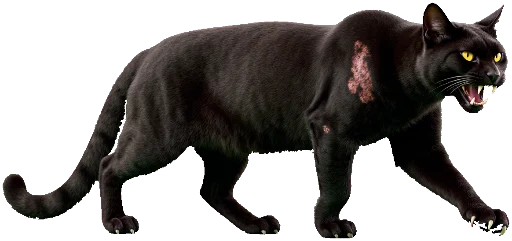
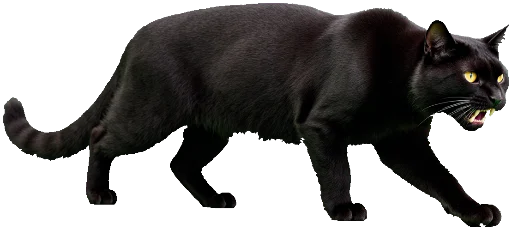
feat: add new sprites and enhance creature animations for improved gameplay

diff --git a/apps/client/src/shared/surprises/rigs.ts b/apps/client/src/shared/surprises/rigs.ts
@@ -105,27 +105,34 @@ export const RIGS: Readonly<Partial<Record<Sprite, Rig>>> = {
         // [RU] С вечера 12.11.2026 кот — уличный чемпион (Алексей: «кот должен выглядеть бойцом, драчуном со скверным
         //      характером… мощным, сильным… гибкий, должен излучать мощь… несломленный характер»): сложён как
         //      пантера, шрам на плече; крадётся низко, выпустив когти, и скалится.
-        width: 512, height: 241, breathe: true,
+        // The fifth picture (12.11.2026, approved: «да, ставь»): a heavyweight black tom stalking to the right with the
+        // fangs bared, no bald patches. [RU] Пятая картинка (одобрена 12.11.2026): тяжёлый чёрный кот крадётся вправо,
+        // оскалившись, без проплешин.
+        width: 512, height: 230, breathe: true,
         parts: [
-            { name: 'tail', move: 'tailSway', pivot: [120, 68], points: [[107, 60], [130, 70], [123, 113], [107, 157], [80, 193], [47, 217], [0, 220], [0, 190], [37, 187], [70, 157], [90, 113]] },
-            { name: 'hind', move: 'footStepLate', pivot: [122, 157], points: [[100, 153], [143, 157], [143, 200], [133, 237], [103, 233], [107, 193]] },
-            { name: 'front', move: 'footStep', pivot: [410, 150], points: [[400, 137], [447, 143], [512, 200], [512, 237], [467, 237], [427, 193], [393, 173]] },
-            { name: 'head', move: 'headTurn', pivot: [425, 85], points: [[417, 40], [427, 3], [447, 13], [467, 27], [497, 7], [512, 13], [512, 113], [467, 117], [433, 100], [413, 73]] },
+            { name: 'tail', move: 'tailSway', pivot: [110, 90], points: [[103, 80], [117, 100], [100, 127], [73, 137], [40, 137], [17, 133], [3, 123], [3, 100], [17, 100], [40, 120], [67, 120], [90, 103], [93, 83]] },
+            { name: 'hind', move: 'footStepLate', pivot: [105, 135], points: [[87, 133], [123, 133], [120, 173], [117, 203], [87, 203], [90, 167]] },
+            { name: 'front', move: 'footStep', pivot: [400, 140], points: [[393, 133], [427, 143], [467, 173], [500, 200], [501, 223], [467, 223], [440, 200], [400, 167]] },
+            { name: 'head', move: 'headTurn', pivot: [430, 75], points: [[413, 40], [427, 20], [447, 30], [480, 37], [503, 27], [512, 30], [512, 100], [497, 123], [467, 130], [440, 117], [420, 93]] },
         ],
         eyes: [
-            { x: 467, y: 57, rx: 6, ry: 4, lid: '#141012', glow: '#ffe14a', part: 'head' },
-            { x: 497, y: 59, rx: 4, ry: 4, lid: '#141012', part: 'head' },
+            { x: 471, y: 78, rx: 6.5, ry: 4.5, lid: '#141012', glow: '#ffe14a', part: 'head' },
+            { x: 500, y: 75, rx: 5, ry: 4.5, lid: '#141012', part: 'head' },
         ],
     },
-    // [EN] The sitting cat yawning: the head tilts back slowly, the tip of the tail twitches, the chest breathes.
-    // [RU] Сидящий кот зевает: голова медленно запрокидывается, кончик хвоста дёргается, грудь дышит.
+    // [EN] The sitting champion snarls at the table: the head tilts back slowly with the jaws open, the eyes burn, the
+    //      tip of the tail twitches, the chest breathes. [RU] Сидящий чемпион скалится на стол: голова медленно
+    //      запрокидывается с открытой пастью, глаза горят, кончик хвоста дёргается, грудь дышит.
     'cat-yawn': {
-        width: 342, height: 512, breathe: true,
+        width: 486, height: 512, breathe: true,
         parts: [
-            { name: 'tail', move: 'tailFlick', pivot: [222, 405], points: [[214, 380], [342, 380], [342, 452], [300, 452], [260, 432], [214, 420]] },
-            { name: 'head', move: 'yawnTilt', pivot: [170, 206], points: [[78, 40], [90, 3], [130, 30], [200, 30], [236, 4], [256, 40], [256, 150], [226, 200], [170, 216], [114, 200], [84, 150]] },
+            { name: 'tail', move: 'tailFlick', pivot: [240, 470], points: [[233, 453], [300, 440], [373, 433], [427, 393], [467, 400], [481, 433], [467, 460], [400, 467], [320, 483], [253, 490], [230, 477]] },
+            { name: 'head', move: 'yawnTilt', pivot: [120, 190], points: [[7, 40], [17, 10], [60, 37], [107, 37], [160, 10], [175, 27], [183, 80], [190, 133], [160, 180], [113, 200], [67, 193], [27, 167], [7, 120]] },
         ],
-        eyes: [],
+        eyes: [
+            { x: 53, y: 85, rx: 10, ry: 6, lid: '#141012', glow: '#ffd23a', part: 'head' },
+            { x: 120, y: 85, rx: 10, ry: 6, lid: '#141012', part: 'head' },
+        ],
     },
     // [EN] The cockroach seen from above: the antennae twitch all the time — even while it freezes — and the two rows
     //      of legs scuttle out of step. [RU] Таракан сверху: усы дёргаются всё время — даже когда он замирает, — а два

diff --git a/apps/client/src/shared/tests/surprises.test.ts b/apps/client/src/shared/tests/surprises.test.ts
@@ -56,6 +56,12 @@ test('every drawing and every photograph is used, and every photograph is on dis
     // [RU] У сцены бывает второе существо: сидящий кот, лич среди червей, раскалённые метеориты среди камней.
     const used = new Set<string>(SETS.flatMap(set => SURPRISE_SETS[set].flatMap(kind => [kind.creature ?? '', kind.extra ?? ''])).filter(Boolean));
     for (const creature of [...DRAWN, ...SPRITES]) assert.ok(used.has(creature), `${creature} is never shown`);
+    // [EN] …and the other way round: every creature a game shows is a known drawing or photograph (12.11.2026 a
+    //      replacement dropped «meteor» and «rock» from SPRITES and only the type check noticed).
+    // [RU] …и наоборот: каждое существо, которое показывает игра, — известный рисунок или фотография (12.11.2026 замена
+    //      выкинула «meteor» и «rock» из SPRITES, и заметила это только проверка типов).
+    const known = new Set<string>([...DRAWN, ...SPRITES]);
+    for (const creature of used) assert.ok(known.has(creature), `${creature} is shown but is neither in DRAWN nor in SPRITES`);
     // [EN] A picture still being painted is listed in PAINTING and is not on disk; every other one is on disk.
     // [RU] Картинка, которая ещё рисуется, записана в PAINTING и её нет на диске; все остальные — на диске.
     for (const sprite of SPRITES) {

diff --git a/apps/client/src/shared/surprises/logic.ts b/apps/client/src/shared/surprises/logic.ts
@@ -41,7 +41,7 @@ export const SPRITES = [
     'raven', 'ghost-hand', 'moth', 'smoke-skull',
     'cat-walk', 'cat-yawn', 'roach', 'chip', 'die', 'smoke-ring',
     'centipede', 'skull', 'lantern', 'hooded', 'lich',
-    'wreck', 'dead-astronaut', 'stalker', 'probe',
+    'meteor', 'rock', 'wreck', 'dead-astronaut', 'stalker', 'probe',
     'sea-gull', 'shark-fin', 'kraken', 'mine', 'scope',
 ] as const;
 export type Sprite = typeof SPRITES[number];
